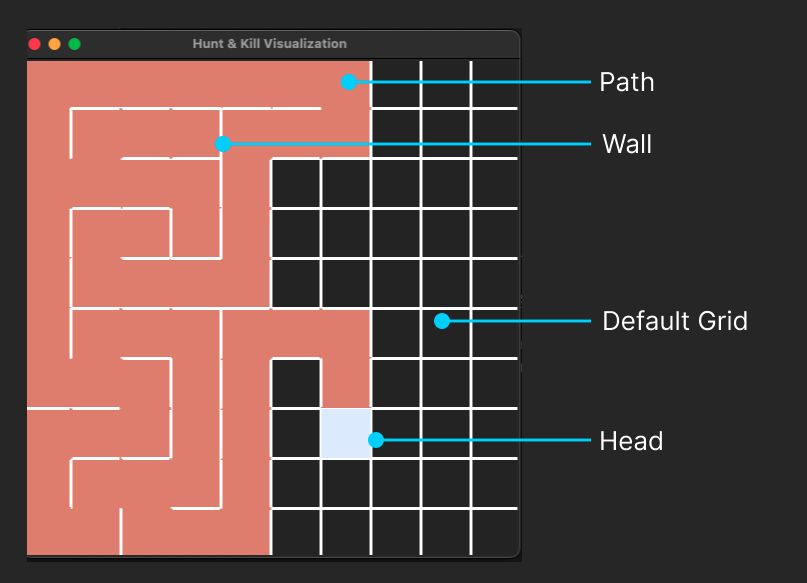
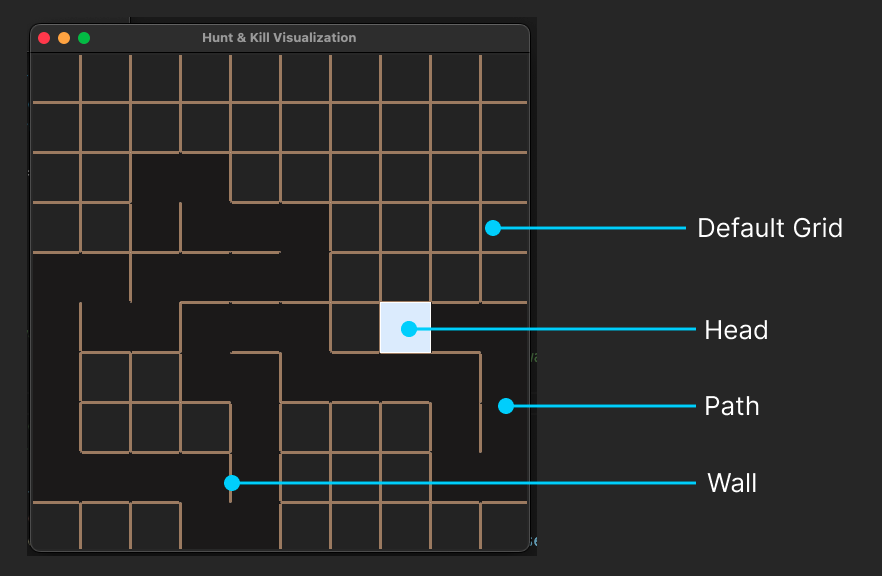
updated maze colour matching final presentation visual

diff --git a/cell.py b/cell.py
@@ -4,9 +4,9 @@ class Cell:
     
     global LINE_COLOUR, CURRENT_FILL, ROAD_FILL
     
-    LINE_COLOUR = "#FFFFFF"
+    LINE_COLOUR = "#AD9272"
     CURRENT_FILL = "#E4EFFF"
-    ROAD_FILL = "#E4987F"
+    ROAD_FILL = "#1E1D1C"
     
     def __init__(self, x, y, border_size) -> None:
         '''
